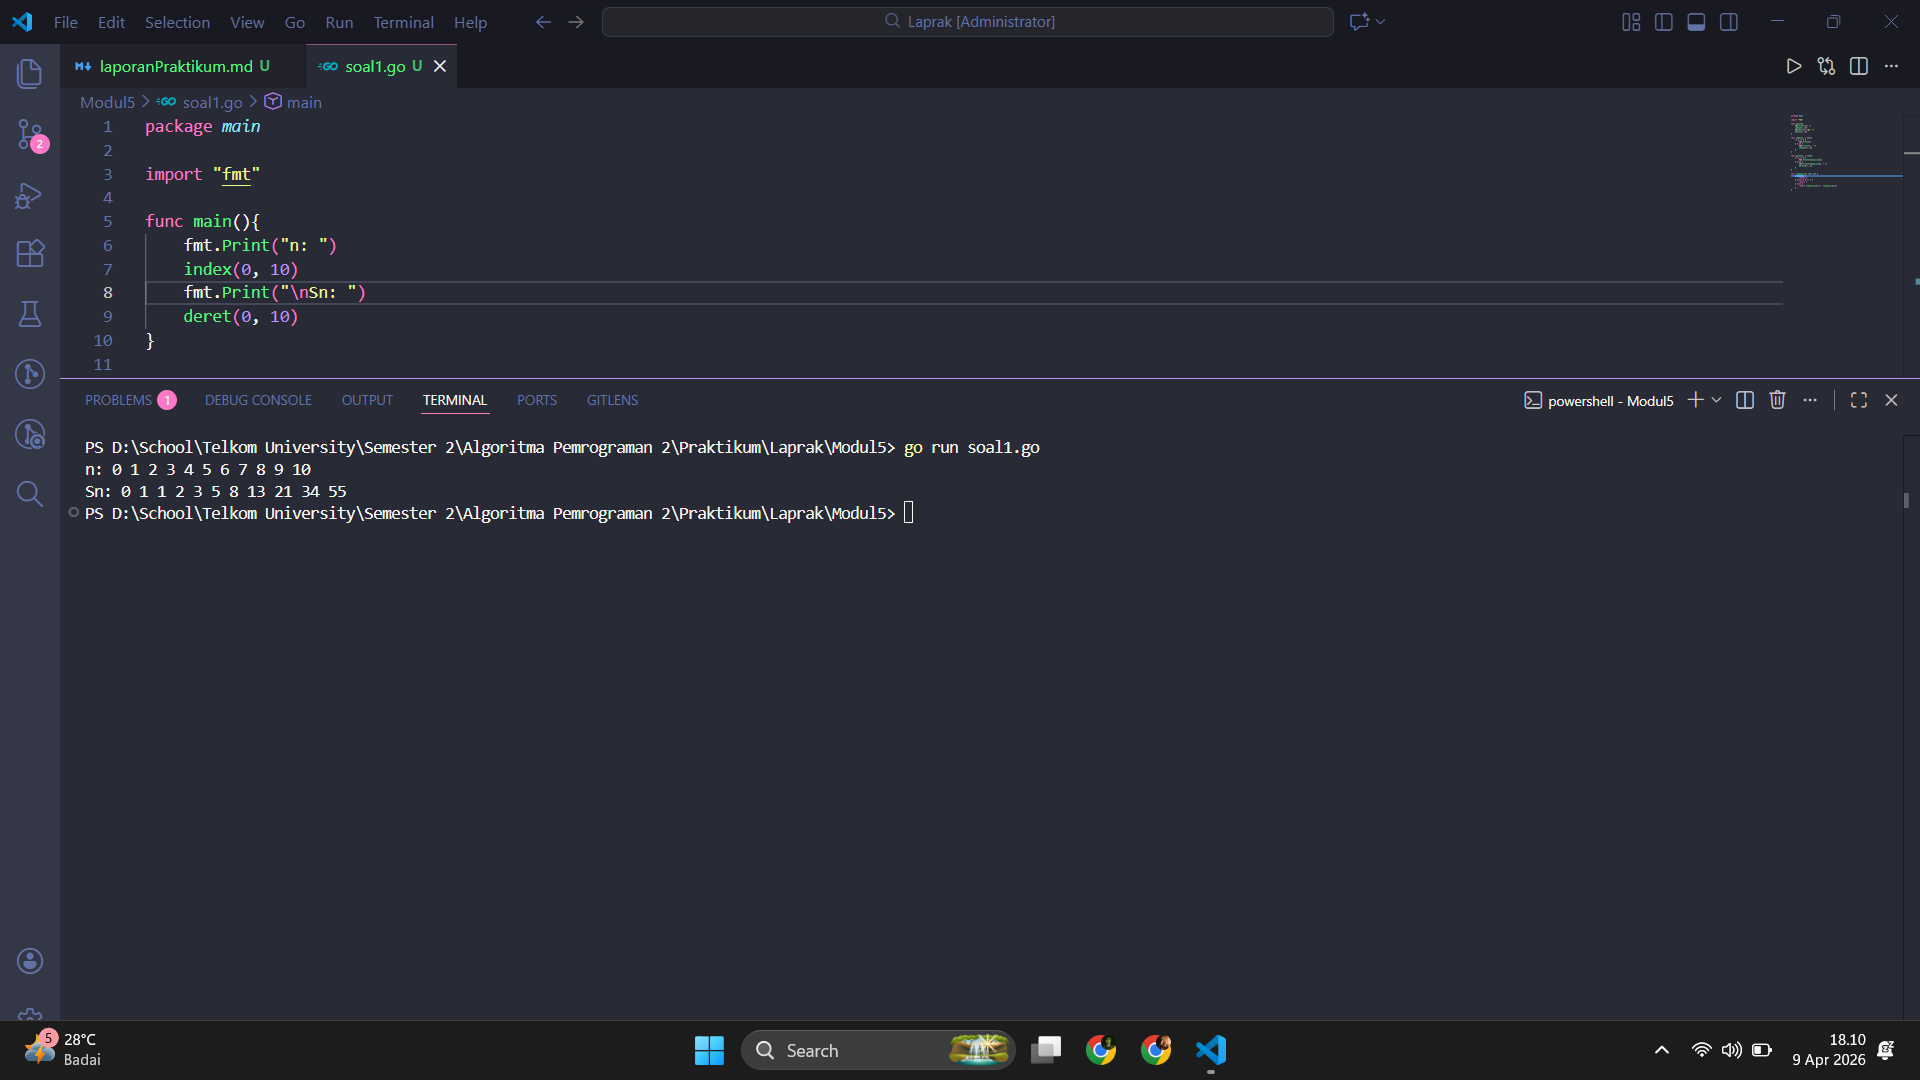
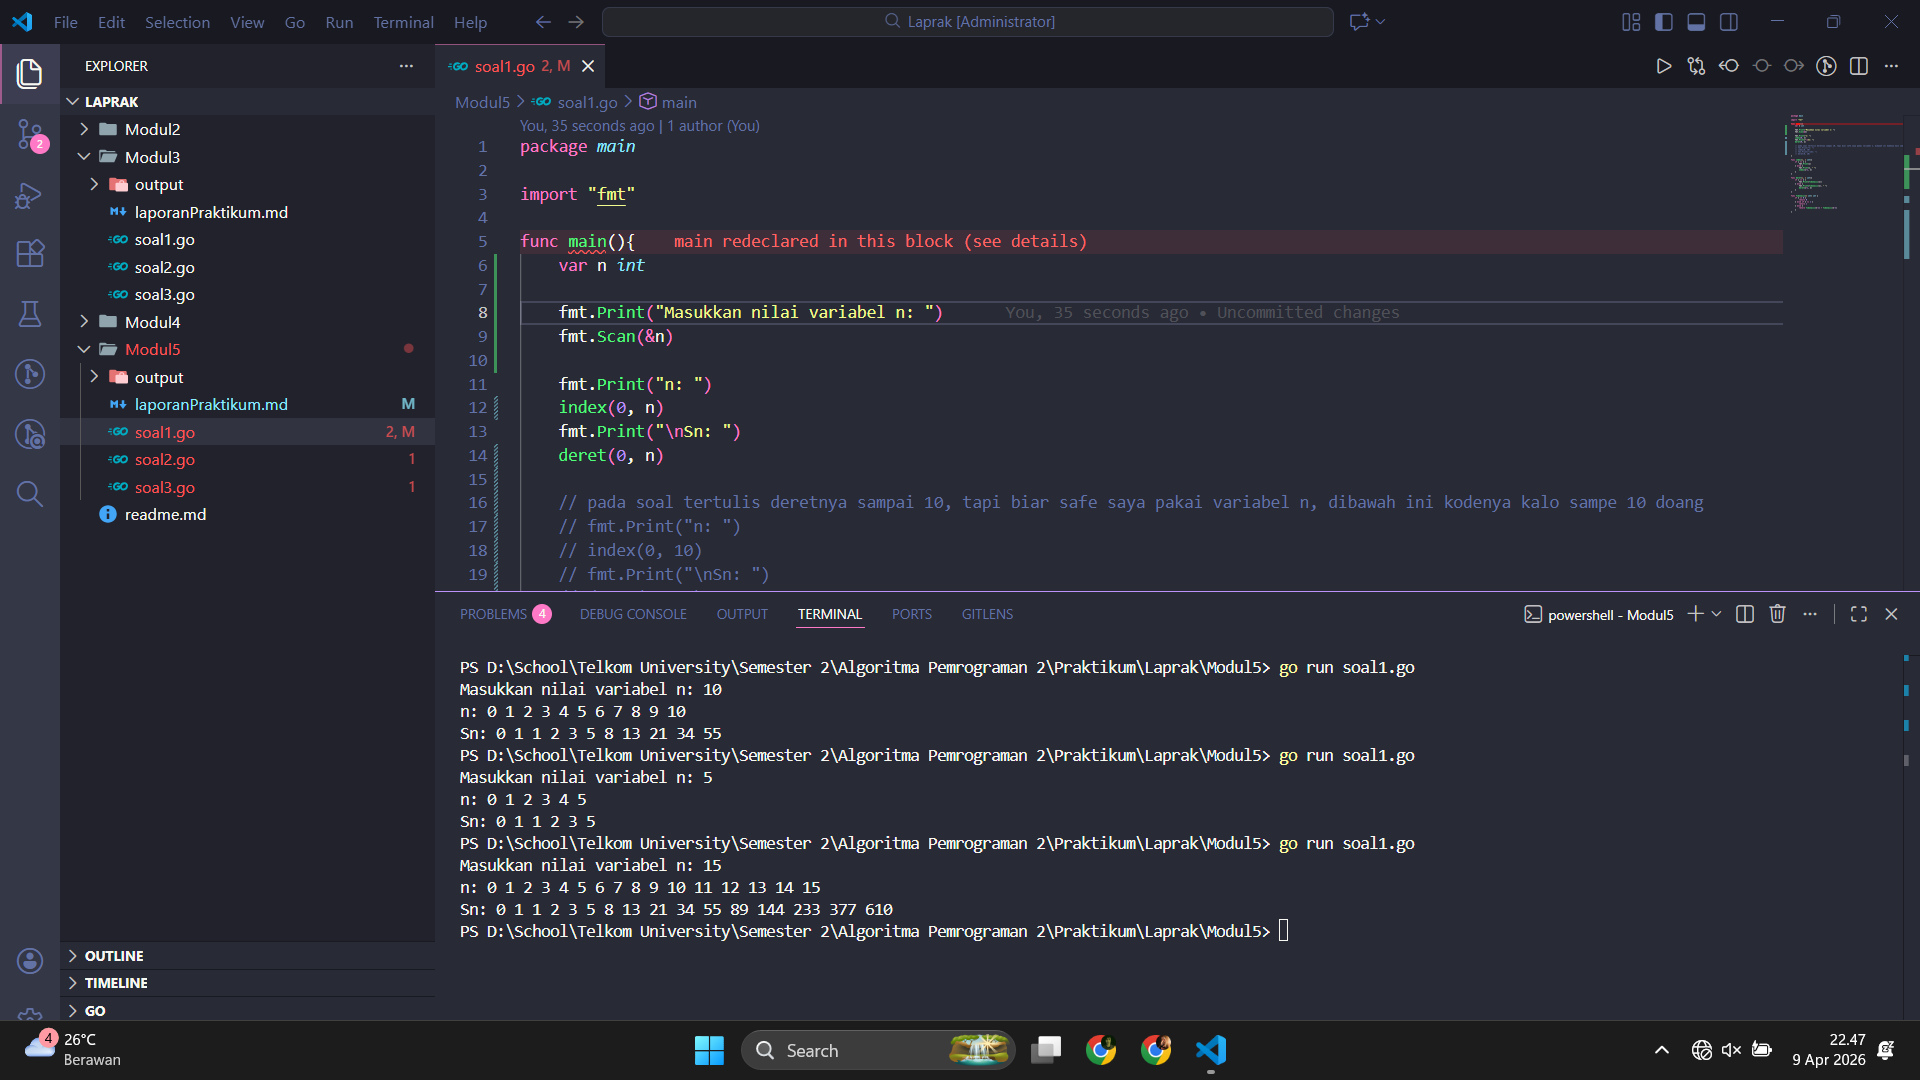
laprak modul 5 don

diff --git a/Modul5/soal1.go b/Modul5/soal1.go
@@ -3,10 +3,21 @@ package main
 import "fmt"
 
 func main(){
+	var n int
+
+	fmt.Print("Masukkan nilai variabel n: ")
+	fmt.Scan(&n)
+
 	fmt.Print("n: ")
-	index(0, 10)
+	index(0, n)
 	fmt.Print("\nSn: ")
-	deret(0, 10)
+	deret(0, n)
+
+	// pada soal tertulis deretnya sampai 10, tapi biar safe saya pakai variabel n, dibawah ini kodenya kalo sampe 10 doang
+	// fmt.Print("n: ")
+	// index(0, 10)
+	// fmt.Print("\nSn: ")
+	// deret(0, 10)
 }
 
 func index(x, n int){

diff --git a/Modul5/laporanPraktikum.md b/Modul5/laporanPraktikum.md
@@ -12,10 +12,21 @@ package main
 import "fmt"
 
 func main(){
+	var n int
+
+	fmt.Print("Masukkan nilai variabel n: ")
+	fmt.Scan(&n)
+
 	fmt.Print("n: ")
-	index(0, 10)
+	index(0, n)
 	fmt.Print("\nSn: ")
-	deret(0, 10)
+	deret(0, n)
+
+	// pada soal tertulis deretnya sampai 10, tapi biar safe saya pakai variabel n, dibawah ini kodenya kalo sampe 10 doang
+	// fmt.Print("n: ")
+	// index(0, 10)
+	// fmt.Print("\nSn: ")
+	// deret(0, 10)
 }
 
 func index(x, n int){
@@ -51,38 +62,62 @@ func fibonacci(n int) int {
 ##### Output 
 ![Screenshot Output Unguided 1_1](https://github.com/arracheille/109082500199_Achel/blob/main/Modul5/output/output-soal1.png)
 ##### Penjelasan
-Program ini adalah program untuk menghitung faktorial(factorial) dan permutasi(permutation) dari dari variabel a, b, c dan d. Tidak hanya itu, program ini juga menghitung kombinasi(combination) dari faktorial dan permutasi. Setiap perhitungan faktorial, permutasi, dan kombinasi menggunakan function atau fungsi. Agar program bekerja dengan baik, input variabel a harus lebih besar sama dengan variabel c, dan input variabel b lebih besar sama dengan variabel d. Berikut ini penjelasan yang lebih lanjut:
+Program ini adalah program untuk menghitung deret fibonacci dari dengan deret dari 1 sampai 10. Berikut ini penjelasan yang lebih lanjut:
 <ul>
   <li><strong>Di dalam func main()</strong>
 	<ol>
-		<li>Program memiliki variabel a, b, c dan d dengan tipe data int</li>
-		<li>Program menampilkan text perintah untuk memasukkan nilai variabel a, b, c dan d kepada user menggunakan fmt.Print.</li>
-		<li>Program memberikan input untuk nilai variabel a, b, c dan d.Setelah memasukkan input, inputan user dibaca oleh program menggunakan fmt.Scan dan &a, &b, &c, &d, lalu nilai inputan dimasukkan ke variabel a, b, c dan d secara berurutan.</li>
-		<li>Program menampilkan output untuk permutasi dari variabel a dan c menggunakan fmt.Print</li>
-		<li>Program menampilkan output untuk kombinasi dari variabel a dan c menggunakan fmt.Println, fmt.Println digunakan agar output selanjutnya berada pada line/baris baru.</li>
-		<li>Program menampilkan output untuk permutasi dari variabel b dan d menggunakan fmt.Print</li>
-		<li>Program menampilkan output untuk kombinasi dari variabel b dan d menggunakan fmt.Print</li>
+		<li>Program memiliki variabel n dengan tipe data integer</li>
+		<li>Program menampilkan text perintah untuk memasukkan nilai variabel n ke user menggunakan fmt.Print.</li>
+		<li>Program memberikan input untuk nilai variabel n. Setelah memasukkan input, inputan user dibaca oleh program menggunakan fmt.Scan dan &n, lalu nilai inputan dimasukkan ke variabel n.</li>
+		<li>Program menampilkan text bertuliskan "n: ", nantinya di sebelahnya akan ada nilai rekursif dari 1 sampai n.</li>
+		<li>Program memanggil prosedur index dengan parameter 0 dan variabel n.</li>
+		<li>Program menampilkan text bertuliskan "Sn: ", nantinya di sebelahnya akan ada nilai hasil deret fibonacci dari suku ke 1 sampai n.</li>
+		<li>Program memanggil prosedur deret dengan parameter 0 dan variabel n.</li>
 	</ol>
   </li>
-  <li><strong>Fungsi/function(func) dari faktorial, permutasi, dan kombinasi</strong>
+  <li><strong>Prosedur index, deret, dan fungsi fibonacci</strong>. Semua prosedur dan fungsi ini menggunakan rekursif forward.
 	<ol>
-		<li><strong>factorial</strong>
-		</br>Pada function ini, program menggunakan variabel n, bertipe data integer. Nilai yang dimasukkan ke function dimasukkan ke variabel n. Function ini membuat variabel baru bernama j dan diberi nilai 1, lalu membuat perulangan for dengan membuat variabel baru pada inisiasi, kondisinya i lebih kecil sama dengan n, dan updatenya i++/post-increment. kode yang tertulis di dalam for adalah variabel j dikalikan variabel i pada setiap perulangan dan nilai variabel i dimasukkan ke variabel j. Terakhir, function menggunakan return untuk mengembalikan nilai variabel j. <strong>Singkatnya, function ini menghitung faktorial dari suatu nilai menggunakan perulangan for.</strong>
+		<li><strong>Prosedur index</strong>
+		</br>Prosedur ini berfungsi untuk menunjukan suku bilangan. Prosedur ini memiliki parameter pass by value yaitu x dan n, bertipe data integer. Prosedur ini berisi base-case, yaitu:
+			<ol>
+				<li><strong>Kondisi 1 (if)</strong>
+				</br>Jika nilai variabel x sama dengan nilai variabel n, maka program akan menjalankan kode untuk menampilkan variabel x menggunakan fmt.Print. Ini adalah kode untuk output terakhir.
+				</li>
+				<li><strong>Kondisi 2 (else)</strong>
+				</br>Jika kondisi pertama tidak terpenuhi atau nilai variabel x tidak sama dengan nilai variabel n, maka program akan menjalankan kode untuk menampilkan variabel x menggunakan fmt.Print, namun di sampingnya ada spasi (" ") karena ini adalah kode untuk menampilkan teks sebelum output terakhir. Lalu kode ini memanggil prosedur index dengan parameter nilai variabel x ditambah 1, dan nilai variabel n, agar perulangan bisa dijalankan.
+				</li>
+			</ol>
 		</li>
-		<li><strong>permutation</strong>
-		</br>Pada function ini, program menggunakan variabel n dan r, bertipe data integer. Nilai yang ditujukan ke function dimasukkan ke variabel n dan r secara berurutan. Function ini membuat variabel baru bernama p dan didalamnya ada sebuah rumus faktorial dari variabel n dibagi dengan faktorial dari variabel n dikurangi variabel r. Lalu function menggunakan return untuk mengembalikan nilai variabel p.
+		<li><strong>Prosedur deret</strong>
+		</br>Prosedur ini berfungsi untuk menunjukan deret fibonacci. Prosedur ini juga memiliki parameter pass by value yaitu x dan n, bertipe data integer. Prosedur ini juga berisi base-case, yaitu:
+			<ol>
+				<li><strong>Kondisi 1 (if)</strong>
+				</br>Jika nilai variabel x sama dengan nilai variabel n, maka program akan menjalankan kode untuk menampilkan output hasil deret fibonacci dari variabel x. Jadi, program menjalankan fungsi fibonacci dari variabel x terlebih dahulu, lalu hasilnya ditampilkan menggunakan fmt.Print. Ini adalah kode untuk menampilkan output terakhir.
+				</li>
+				<li><strong>Kondisi 2 (else)</strong>
+				</br>Jika kondisi pertama tidak terpenuhi atau nilai variabel x tidak sama dengan nilai variabel n, maka program akan menjalankan kode untuk menampilkan variabel hasil deret fibonacci dari variabel x. Jadi, program menjalankan fungsi fibonacci dari variabel x terlebih dahulu, lalu hasilnya ditampilkan menggunakan fmt.Print, namun di sampingnya ada spasi (" ") karena ini adalah kode untuk menampilkan teks sebelum output terakhir. Lalu kode ini memanggil prosedur deret dengan parameter nilai variabel x ditambah 1, dan nilai variabel n, agar perulangan bisa dijalankan.
+				</li>
+			</ol>
 		</li>
-		<li><strong>combination</strong>
-		</br>Sama seperti permutation, program menggunakan variabel n dan r dan nilai dimasukkan ke masing-masing variabel secara berurutan. Function ini membuat variabel baru bernama c dan didalamnya ada sebuah rumus yaitu faktorial dari variabel n dibagi dengan faktorial variabel r, lalu dikali faktorial dari variabel n dikurangi variabel r. Lalu function menggunakan return untuk mengembalikan nilai variabel c.
+		<li><strong>Fungsi fibonacci</strong>
+		</br>Prosedur ini berfungsi untuk menghitung bilangan fibonacci. Prosedur ini juga memiliki parameter pass by value yaitu n, bertipe data integer. Prosedur ini juga berisi base-case, yaitu:
+			<ol>
+				<li><strong>Kondisi 1 (if)</strong>
+				</br>Jika nilai variabel n sama dengan 0, maka nilai yang di-return adalah 0.
+				</li>
+				<li><strong>Kondisi 2 (else-if)</strong>
+				</br>Jika nilai variabel n sama dengan 1, maka nilai yang di-return adalah 1.
+				</li>
+				<li><strong>Kondisi 3 (else)</strong>
+				</br>Jika kedua kondisi sebelumnya tidak terpenuhi, maka program akan menjalankan kondisi ini. Yaitu nilai yang di-return adalah hasil perhitungan fungsi fibonacci n-1 ditambahkan hasil perhitungan fungsi fibonacci n-2.
+				</li>
+			</ol>
 		</li>
 	</ol>
-	<li><strong>Cara kerja function</strong>
-		</br>contohnya permutation(a, c), maka yang akan terjadi adalah nilai a dimasukkan ke variabel n, nilai c dimasukkan ke variabel r dan akan menjalankan kode function permutation.
-	</li>
   </li>
 </ul>
 
-### 2. Buatlah sebuah program yang digunakan untuk menampilkan pola bintang berikut ini denganmenggunakan fungsi rekursif. N adalah masukan dari user.
+### 2. Buatlah sebuah program yang digunakan untuk menampilkan pola bintang berikut ini dengan menggunakan fungsi rekursif. N adalah masukan dari user.
 #### soal2.go
 
 ```go
@@ -117,33 +152,27 @@ func bintang(jumlah int) {
 ##### Output 
 ![Screenshot Output Unguided 1_1](https://github.com/arracheille/109082500199_Achel/blob/main/Modul5/output/output-soal2.png)
 ##### Penjelasan
-Program ini adalah program untuk menghitung fungsi f, g dan h dari variabel a, b dan c. Setelah ketiga fungsi terhitung, lalu program akan menghitung fungsi fogoh untuk variabel a, gohof untuk variabel b, dan hofog untuk variabel c. Berikut penjelasan yang lebih lanjut:
+Program ini adalah program untuk menampilkan banyaknya baris dan bintang berdasarkan nilai n. Berikut penjelasan yang lebih lanjut:
 <ul>
   <li><strong>Di dalam func main()</strong>
 	<ol>
-		<li>Program memiliki variabel a, b dan c dengan tipe data int</li>
-		<li>Program menampilkan text perintah untuk memasukkan nilai variabel a, b dan c kepada user menggunakan fmt.Print.</li>
-		<li>Program memberikan input untuk nilai variabel a, b dan c.Setelah memasukkan input, inputan user dibaca oleh program menggunakan fmt.Scan dan &a, &b, &c, lalu nilai inputan dimasukkan ke variabel a, b dan c secara berurutan.</li>
-		<li>Program menampilkan output fungsi fogoh dari variabel a menggunakan fmt.Println, fmt.Println digunakan agar output selanjutnya berada pada line/baris baru. f(g(h(a))) berarti program menghitung fungsi h dari nilai variabel a, lalu  menghitung fungsi g menggunakan hasil dari fungsi h, terakhir menghitung fungsi f menggunakan hasil dari fungsi g.</li>
-		<li>Program menampilkan output fungsi gohof dari variabel b menggunakan fmt.Println, fmt.Println digunakan agar output selanjutnya berada pada line/baris baru. g(h(f(b))) berarti program menghitung fungsi f dari nilai variabel b, lalu  menghitung fungsi h menggunakan hasil dari fungsi f, terakhir menghitung fungsi g menggunakan hasil dari fungsi h.</li>
-		<li>Program menampilkan output fungsi hofog dari variabel c menggunakan fmt.Print. h(f(g(c))) berarti program menghitung fungsi g dari nilai variabel c, lalu  menghitung fungsi f menggunakan hasil dari fungsi g, terakhir menghitung fungsi h menggunakan hasil dari fungsi f.</li>
+		<li>Program memiliki variabel n dengan tipe data integer</li>
+		<li>Program menampilkan text perintah untuk memasukkan nilai variabel n kepada user menggunakan fmt.Print.</li>
+		<li>Program memberikan input untuk nilai variabel n. Setelah memasukkan input, inputan user dibaca oleh program menggunakan fmt.Scan dan &n, lalu nilai inputan dimasukkan ke variabel n.</li>
+		<li>Program memanggil prosedur baris dengan argumen 1 dan variabel n.</li>
 	</ol>
   </li>
-    <li><strong>Fungsi/function(func) dari f, g dan h</strong>
+    <li><strong>Prosedur baris dan bintang</strong>. Kedua prosedur ini menggunakan rekursif forward.
 	<ol>
-		<li><strong>f</strong>
-		</br>Pada function ini, program menggunakan variabel x, bertipe data integer. Nilai yang dimasukkan ke function dimasukkan ke variabel x. Function ini membuat variabel baru bernama fx dan di dalamnya ada sebuah rumus aritmatika yaitu variabel x dikali variabel x. Lalu function menggunakan return untuk mengembalikan nilai variabel fx.
+		<li><strong>Prosedur baris</strong>
+		</br>Prosedur ini berfungsi untuk menampilkan banyaknya baris berdasarkan nilai variabel n. Prosedur ini memiliki parameter pass by value yaitu i dan n, bertipe data integer. Prosedur ini berisi base-case, if dengan kondisi: 
+		</br>Jika nilai variabel i kurang dari sama dengan nilai variabel n, maka program akan memanggil fungsi bintang dengan argumen variabel i. Ini berarti program mengirim banyaknya indeks ke prosedur bintang (misalnya indeks ke-1, maka pada prosedur bintang akan menampilkan "*", lalu dilanjutkan ke indeks ke-2, maka pada prosedur bintang akan menampilkan "**", dan seterusnya). Lalu ada fmt.Println() agar setiap baris bintang berada di line output yang baru. Dan program memanggil prosedur baris dengan argumen nilai variabel i ditambah 1. dan variabel n. Kondisi ini akan terus berulang sampai nilai variabel i sama dengan nilai variabel n.
 		</li>
-		<li><strong>g</strong>
-		</br>Pada function ini, program menggunakan variabel x, bertipe data integer. Nilai yang dimasukkan ke function dimasukkan ke variabel x. Function ini membuat variabel baru bernama gx dan di dalamnya ada sebuah rumus aritmatika yaitu variabel x dikurangi 2. Lalu function menggunakan return untuk mengembalikan nilai variabel gx.
-		</li>
-		<li><strong>h</strong>
-		</br>Pada function ini, program menggunakan variabel x, bertipe data integer. Nilai yang dimasukkan ke function dimasukkan ke variabel x. Function ini membuat variabel baru bernama hx dan di dalamnya ada sebuah rumus aritmatika yaitu variabel x ditambah 1. Lalu function menggunakan return untuk mengembalikan nilai variabel hx.
+		<li><strong>Prosedur bintang</strong>
+		</br>Prosedur ini berfungsi untuk menampilkan banyaknya bintang per baris berdasarkan nilai variabel n. Prosedur ini memiliki parameter pass by value yaitu jumlah, bertipe data integer. Prosedur ini berisi base-case, if dengan kondisi: 
+		</br>Jika nilai variabel jumlah lebih dari 0, maka program akan menampilkan banyaknya bintang menggunakan fmt.Print("*"). Bintang ini akan terus bertambah ke kanan berdasarkan indeks ke-i. Dan program memanggil prosedur bintang dengan argumen nilai variabel jumlah dikurangi 1.
 		</li>
 	</ol>
-	<li><strong>Cara kerja function</strong>
-		</br>contohnya f(g(h(a))), maka yang akan terjadi adalah nilai a dimasukkan ke variabel x dari function h, karena perhitungan dimulai dari function yang paling dalam. Lalu setelah program selesai menghitung function h, selanjutnya menghitung fuction g karena function h berada di dalam function g. Perhitungan dari function g adalah hasil dari function h dimasukkan ke variabel x dari function g. Setelah program selesai menghitung, terakhir, karena function g berada di dalam function f, perhitungan dari function f adalah hasil dari function g dimasukkan ke variabel x dari function f.
-	</li>
   </li>
 </ul>
 
@@ -181,43 +210,26 @@ func faktor(i, n int) {
 ##### Output 
 ![Screenshot Output Unguided 1_1](https://github.com/arracheille/109082500199_Achel/blob/main/Modul5/output/output-soal3.png)
 ##### Penjelasan
-Program ini adalah program untuk menentukan posisi sebuah titik sembarang (variabel x dan variabel y) berdasarkan dua lingkaran. Berikut penjelasan yang lebih lanjut:
+Program ini adalah program untuk menghitung/mencari faktor dari n. Berikut penjelasan yang lebih lanjut:
 <ul>
-	<li><strong>Di dalam func main()</strong>
-		<ol>
-			<li><strong>Variabel untuk lingkaran 1</strong>
-			</br>Program memiliki variabel cx1, cy1 dan r1 dengan tipe data float64. cx1 adalah titik koordinat garis x, cy1 adalah titik koordinat garis y, r1 adalah radius dari lingkaran.</li>
-			<li><strong>Variabel untuk lingkaran 2</strong>
-			</br>Program memiliki variabel cx2, cy2 dan r2 dengan tipe data float64. cx2 adalah titik koordinat garis x, cy2 adalah titik koordinat garis y, r2 adalah radius dari lingkaran.</li>
-			<li>Lalu variabel x dan y bertipe data float64, sebagai titik sembarang. Variabel output bertipe data string sebagai text output</li>
-			<li>Program menampilkan text perintah untuk memasukkan nilai seluruh variabel kecuali variabel output kepada user menggunakan fmt.Print.</li>
-			<li>Program memberikan input untuk nilai seluruh variabel kecuali variabel output. Setelah memasukkan input, inputan user dibaca oleh program menggunakan fmt.Scan dan &(variabel), lalu nilai inputan dimasukkan ke variabel seluruh variabel kecuali variabel output secara berurutan. Input untuk variabel dari lingkaran 1 dan lingkaran 2 menggunakan fmt.Scanln agar kode selanjutnya berada di line/baris baru.</li>
-			<li>Text perintah dan fmt.Scan dituliskan secara berkelompok, yang pertama untuk lingkaran 1, lalu lingkaran 2 dan titik sembarang.</li>
-			<li>Program membuat variabel bernama titik1 dengan isi variabel adalah function didalam, variabel ini menghitung function didalam dari nilai variabel cx1, cy1, r1, x dan y</li>
-			<li>Program membuat variabel bernama titik2 dengan isi variabel adalah function didalam, variabel ini menghitung function didalam dari nilai variabel cx2, cy2, r2, x dan y</li>
-		</ol>
+  <li><strong>Di dalam func main()</strong>
+	<ol>
+		<li>Program memiliki variabel n dengan tipe data integer</li>
+		<li>Program menampilkan text perintah untuk memasukkan nilai variabel n kepada user menggunakan fmt.Print.</li>
+		<li>Program memberikan input untuk nilai variabel n. Setelah memasukkan input, inputan user dibaca oleh program menggunakan fmt.Scan dan &n, lalu nilai inputan dimasukkan ke variabel n.</li>
+		<li>Program menampilkan text bertuliskan "Faktor: ", nantinya di sebelahnya akan ada nilai hasil pencarian faktor dari variabel n.</li>
+		<li>Program memanggil prosedur faktor dengan argumen 1 dan variabel n.</li>
+	</ol>
 	</li>
-    <li><strong>Fungsi/function(func) didalam dan jarak</strong>
-		<ol>
-			<li><strong>didalam</strong>
-			</br>Pada function ini, program menggunakan variabel cx, cy, r, x, y, bertipe data float64. Nilai yang dimasukkan ke function dimasukkan ke variabel cx, cy, r, x, y secara berurutan. Function ini mengecek apakah jarak antara titik dan pusat lingkaran lebih kecil sama dengan radius dengan cara menggunakan function jarak yang diberi variabel cx, cy, x, y, lalu dicek menggunakan <= r. Kode tersebut dikembalikan menggunakan return.
-			</li>
-			<li><strong>jarak</strong>
-			</br>Pada function ini, program menggunakan variabel a, b, c, d bertipe data float64. Nilai variabel cx, cy, x, y dari function didalam dimasukkan ke variabel a, b, c, d secara berurutan. <strong>Berarti a = cx, b = cy, c = x, dan d = y</strong>. Function ini menghitung akar (math.Sqrt) dari hasil variabel a dikurangi variabel c, lalu dipangkatkan 2 (menggunakan math.Pow(a-c, 2), angka 2 sebagai pangkat). Lalu ditambahkan dengan hasil variabel b dikurangi variabel d, lalu dipangkatkan 2 (menggunakan math.Pow(b-d, 2), angka 2 sebagai pangkat). Akar ini dikembalikan menggunakan return.
-			</li>
-		</ol>
+		<li><strong>Prosedur faktor</strong>. Prosedur ini menggunakan rekursif forward.
+		</br>Prosedur ini berfungsi untuk mencari apa saja faktor dari nilai variabel n. Prosedur ini memiliki parameter pass by value yaitu i dan n, bertipe data integer. Prosedur ini berisi base-case dengan kondisi: 
+			<ol>
+				<li><strong>Kondisi 1 (if)</strong>
+				</br>Jika nilai variabel i kurang dari nilai variabel n, maka program akan menjalankan sebuah kondisi untuk mengecek apakah n adalah faktor dari i. Kondisinya adalah jika nilai variabel n habis dibagi atau di-modulus nilai variabel i hasilnya 0, maka program akan menampilkan nilai variabel i tersebut dan titik spasi di sebelahnya, karena ini adalah kode sebelum nilai faktor terakhir
+				</li>
+				<li><strong>Kondisi 2 (else-if)</strong>
+				</br>Jika nilai variabel i sama dengan n, maka program akan menampilkan nilai i tersebut. Kode ini tidak ada titik spasi karena ini adalah faktor terakhir.
+				</li>
+			</ol>
 	</li>
-	<li>Setelah menghitung titik1 dan titik2, program menggunakan if-else-if untuk membandingkan kondisi:
-		<ol>
-			<li><strong>Kondisi 1 (if)</strong>
-			</br>Kondisinya adalah jika titik1 dan (&&) titik2 bernilai true, maka variabel output berisi "Titik di dalam lingkaran 1 dan 2"</li>
-			<li><strong>Kondisi 2 (else if)</strong>
-			</br>Kondisinya adalah jika hanya titik1 yang bernilai true, maka variabel output berisi "Titik di dalam lingkaran 1"</li>
-			<li><strong>Kondisi 3 (else if)</strong>
-			</br>Kondisinya adalah jika hanya titik2 yang bernilai true, maka variabel output berisi "Titik di dalam lingkaran 2"</li>
-			<li><strong>Kondisi 4 (else)</strong>
-			</br>Kondisinya adalah jika semua kondisi diatas tidak terpenuhi, atau berarti titik1 dan titik2 bernilai false, maka variabel output berisi "Titik di luar lingkaran 1 dan 2".</li>
-		</ol>
-	</li>
-	<li>Terakhir, ada fmt.Print untuk menampilkan keluaran/text dari nilai variabel output</li>
 </ul>
